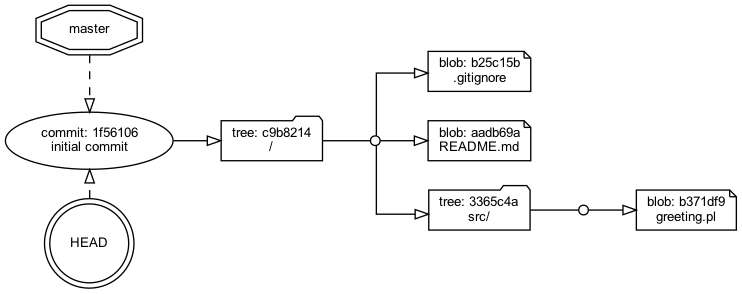
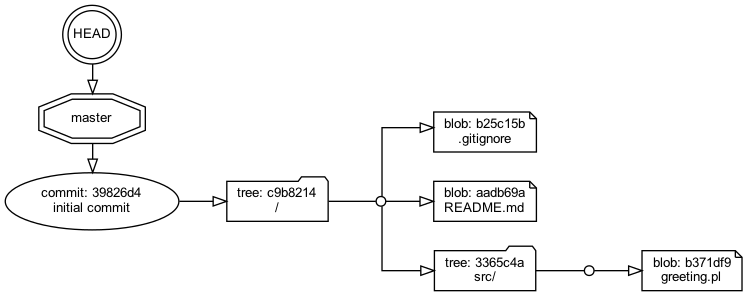
shows the current branch tree; HEAD points the master node

diff --git a/kazurayam/visualize_git_repository.py b/kazurayam/visualize_git_repository.py
@@ -16,34 +16,32 @@ class GitRepositoryVisualizer:
                             fontname="arial", fontsize="10")
         g.edge_attr.update(constraint="true", arrowhead="onormal",
                            fontname="arial", fontsize="10")
+        #
+        g.node("HEAD", "HEAD", shape="doublecircle", width="0.5", fixedsize="true")
+
         # process branches
-        commit_hash = self.visualize_branches(wt, g)
+        branch_name = self.visualize_current_branch(wt, g)
 
         # place HEAD node and draw edge to the commit object
-        g.node("HEAD", "HEAD", shape="doublecircle", width="0.4")
-        g.edge("HEAD", commit_hash, constraint="false", style="dashed")
+        g.edge("HEAD", branch_name, constraint="false", minlen="1")
+
         # gray out the duplicating blobs and trees
         self.grayout_duplicating_nodes(g)
         # done
         return g
 
-    def visualize_branches(self, wt: str, g:Digraph) -> str:
-        o = GIT.showref_heads(wt)
-        for head in o.splitlines():
-            ref = head.split()[1]
-            branch_name = ref.split('/')[2]
-            # "master", "develop" etc
-
-            # grasp the hash of the commit object aliased to the branch
-            o = GIT.revparse(wt, branch_name)
-            commit_hash = o.strip()
-            #
-            g.node(branch_name, branch_name, shape="doubleoctagon", width="0.3")
-            g.edge(branch_name, commit_hash, constraint="false", style="dashed", weight="2", minlen="2")
-            # draw the great tree
-            self.visualize_commit(wt, commit_hash, g)
+    def visualize_current_branch(self, wt: str, g:Digraph) -> str:
+        branch_name = GIT.branch_show_current(wt)   # "master", "develop" etc
+        # grasp the hash of the commit object aliased to the branch
+        o = GIT.revparse(wt, branch_name)
+        commit_hash = o.strip()
         #
-        return GIT.revparse(wt, 'HEAD').strip()
+        g.node(branch_name, branch_name, shape="doubleoctagon", width="0.3")
+        g.edge(branch_name, commit_hash, constraint="false", weight="2", minlen="1")
+        # draw the great tree
+        self.visualize_commit(wt, commit_hash, g)
+        #
+        return branch_name
 
     def visualize_commit(self, wt: str, the_commit_hash: str, g: Digraph):
         self.commits.append(the_commit_hash)

diff --git a/kazurayam/visualize_git_repository_test.py b/kazurayam/visualize_git_repository_test.py
@@ -72,11 +72,9 @@ def test_2_new_branch(basedir):
     operate_initial_commit(wt)
     GRV().visualize(wt).render(os.path.join(gr, "figure-2.1"), format="png")
     #
-    GIT.branch(wt, "develop")
+    GIT.branch_new(wt, "develop")
+    GIT.checkout(wt, "develop")
     GRV().visualize(wt).render(os.path.join(gr, "figure-2.2"), format="png")
     #
-    GIT.checkout(wt, "develop")
-    GRV().visualize(wt).render(os.path.join(gr, "figure-2.3"), format="png")
-    #
     operate_modify_readme(wt)
-    GRV().visualize(wt).render(os.path.join(gr, "figure-2.4"), format="png")
+    GRV().visualize(wt).render(os.path.join(gr, "figure-2.3"), format="png")

diff --git a/Qiita-2.md b/Qiita-2.md
@@ -1,0 +1,13 @@
+
+
+| masterブランチ | developブランチ |
+| ------------ | ------------- |
+| ![figure-2.1](tmp/2_new_branch/gr/figure-2.1.png) | |
+
+| masterブランチ | developブランチ |
+| ------------ | ------------- |
+|  | ![figure-2.2](tmp/2_new_branch/gr/figure-2.2.png) |
+
+| masterブランチ | developブランチ |
+| ------------ | ------------- |
+| | ![figure-2.3](tmp/2_new_branch/gr/figure-2.3.png) |
